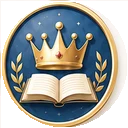
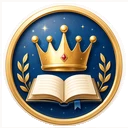
Use individual achievement medal assets

diff --git a/docs/index.html b/docs/index.html
@@ -22,8 +22,10 @@
 @media(max-width:520px){.shell:not(.admin)[data-view="home"]>.welcome{flex:0 0 auto;height:auto;max-height:calc(100dvh - 112px);overflow:hidden;padding-bottom:18px}.hero-name{grid-template-columns:max-content 96px;gap:7px}.hero-name h1{max-width:224px}.current-medal img{width:92px;height:92px}.medal-collection{margin-top:8px;margin-bottom:10px}.achievement-progress{margin-bottom:7px}.stats{margin-top:8px;margin-bottom:9px}.menu{margin-top:8px}.achievement-hero:before{inset:-42px -18px auto;height:350px;background:radial-gradient(ellipse at 38% 18%,var(--achievement-glow),transparent 65%)}}
 .medal-slot.earned{border:0;background:transparent;box-shadow:none}.medal-slot.earned img{width:100%;height:100%;filter:drop-shadow(0 4px 5px #18273b28)}.hero-name{grid-template-columns:max-content 90px;gap:4px;align-items:center}.current-medal{width:90px;align-self:center}.current-medal img{width:86px;height:86px;filter:drop-shadow(0 5px 7px #18273b2d)}.current-medal span{margin-top:-1px;font-size:9px;padding:3px 7px}.achievement-hero:before{background:radial-gradient(ellipse at 34% 17%,var(--achievement-glow),transparent 61%)}
 @media(max-width:520px){.hero-name{grid-template-columns:max-content 86px;gap:2px}.hero-name h1{max-width:230px}.current-medal{width:86px}.current-medal img{width:82px;height:82px}.current-medal span{font-size:8px;padding:3px 6px}.medal-slot.earned small{bottom:-3px}.achievement-hero:before{background:radial-gradient(ellipse at 34% 16%,var(--achievement-glow),transparent 62%)}}
+.hero-name{grid-template-columns:max-content 78px;gap:6px}.current-medal{width:78px}.current-medal img{width:72px;height:72px}.current-medal span{max-width:78px;margin-top:1px;padding:3px 5px;font-size:8px;overflow:hidden;text-overflow:ellipsis}.medal-slot.earned img{filter:drop-shadow(0 3px 5px #18273b24)}
+@media(max-width:520px){.hero-name{grid-template-columns:max-content 76px;gap:4px}.hero-name h1{max-width:236px}.current-medal{width:76px}.current-medal img{width:70px;height:70px}.current-medal span{max-width:76px}.medal-collection{margin-top:10px}}
 </style></head><body><main id="app" class="shell"><div class="loading">Загружаю занятие…</div></main>
-<script src="./streak.js?v=8"></script><script>
+<script src="./streak.js?v=9"></script><script>
 const params=new URLSearchParams(location.search),queryToken=params.get('token')||'',queryTeacher=params.get('teacher')||'';if(queryToken)localStorage.setItem('wordsToken',queryToken);if(queryTeacher)localStorage.setItem('wordsTeacher',queryTeacher);const TOKEN=queryToken||localStorage.getItem('wordsToken')||'';let TEACHER=queryTeacher||(!TOKEN?localStorage.getItem('wordsTeacher')||'':'');const API_URL='https://script.google.com/macros/s/AKfycbzXGwwZqhBFhVkdWnY84sz4YAc-iTSqShHS9PDfTaNq6uDQF-geMDTpUk4zptzNLnHarQ/exec',APP_URL=location.origin+location.pathname,app=document.getElementById('app');let lesson,index=0,ratings=[],quizIndex=0,quizScore=0,quizAnswers=[],retry=[],retryIndex=0,tableTabs={words:[],verbs:[]},autoSound=localStorage.getItem('wordsAutoSound')!=='0',speechRate=Number(localStorage.getItem('wordsSpeechRate')||.82),preferredVoice=localStorage.getItem('wordsVoice')||'',repeatSound=localStorage.getItem('wordsRepeatSound')==='1',remindersEnabled=localStorage.getItem('wordsReminders')==='1',homeData=null,lastSaved=true,lastMistakes=[],lastSummary=null,practiceAfterLesson=false,progressRun=null,progressType=sessionStorage.getItem('wordsProgressType')||'';
 const LOCAL_TIME_ZONE=Intl.DateTimeFormat().resolvedOptions().timeZone||'Europe/Moscow';
 const reminderPhrases=['Семь слов сегодня — заметный шаг к свободной речи.','Пять минут практики лучше, чем идеальный план на потом.','Твои слова ждут короткого повторения.','Каждое повторение делает речь увереннее.','Открой Words — один маленький урок уже считается победой.','Память любит регулярность. Самое время повторить слова.','Семь карточек — и дневная цель станет ближе.','Не обязательно долго: достаточно одного занятия.','Сегодняшнее повторение экономит время завтра.','Слова становятся твоими, когда ты к ним возвращаешься.','Небольшая тренировка сегодня — уверенный разговор потом.','Есть слова для повторения. Поможем им закрепиться?','Один урок занимает несколько минут, а результат остаётся надолго.','Продолжай серию занятий — начни с семи карточек.','Самое сложное — открыть приложение. Дальше будет легко.','Проверь себя: возможно, сегодня ты знаешь больше, чем вчера.','Повтори знакомое и добавь несколько новых слов.','Язык растёт по одному слову. Добавим сегодняшние семь?','Короткая практика прямо сейчас поддержит твой прогресс.','Вернись к словам на несколько минут — они уже почти закрепились.'];
@@ -95,5 +97,5 @@ function leaveTeacher(){TEACHER='';localStorage.removeItem('wordsTeacher');app.c
 async function teacherLogin(){let key=localStorage.getItem('wordsTeacher')||'';if(!key)key=prompt('Введите код преподавателя:')||'';if(!key)return;showLoading('Открываю кабинет преподавателя…');try{const d=await call('bootstrap','',key);if(d.role!=='teacher')throw new Error('Неверный код.');TEACHER=key;localStorage.setItem('wordsTeacher',key);tableTabs=d.tabs||{words:[],verbs:[]};renderTeacher(d.dashboard)}catch(e){localStorage.removeItem('wordsTeacher');alert(e.message);location.reload()}}
 function studentRow(s){const difficult=s.difficult||[],items=s.history||[],words=s.words||{learned:0,studied:s.studied||0},verbs=s.verbs||{learned:0,studied:0},hard=difficult.length?difficult.map(x=>`${esc(x.word)} (${x.wrong})`).join(', '):'ошибок пока нет',history=items.length?items.map(x=>`<div class="history">${fmtDate(x.date)} · ${x.category==='verb'?'глаголы':'слова'} · ${x.score}/${x.total}</div>`).join(''):'<div class="history">Занятий пока нет</div>',editData=encodeURIComponent(JSON.stringify({token:s.token,name:s.name,wordsTab:s.wordsTab,verbsTab:s.verbsTab,language:s.language}));return `<div class="student"><div class="student-head"><div><b>${esc(s.name)}</b><div class="meta">Последний вход: ${fmtDate(s.lastSeen)} · последний тест ${s.lastScore||'—'}</div><div class="meta">Вкладки: ${esc(s.wordsTab)} / ${esc(s.verbsTab||'—')}</div></div><div><button class="btn secondary" onclick='copyLink(${JSON.stringify(s.token)})'>Ссылка</button> <button class="btn secondary" onclick="editStudent('${editData}')">Редактировать</button> <button class="btn ghost" onclick='resetStudent(${JSON.stringify(s.token)},${JSON.stringify(s.name)})'>Сбросить прогресс</button> <button class="btn ${s.active?'danger':'primary'}" onclick='toggleStudent(${JSON.stringify(s.token)},${!s.active})'>${s.active?'Отключить':'Включить'}</button> <button class="btn danger" onclick='removeStudent(${JSON.stringify(s.token)},${JSON.stringify(s.name)})'>Удалить</button></div></div><div class="student-grid"><div class="mini"><b>${s.today||0}</b><br>занятий сегодня</div><div class="mini"><b>${s.week||0}</b><br>за 7 дней</div><div class="mini"><b>${words.learned||0}/${words.studied||0}</b><br>слова</div><div class="mini"><b>${verbs.learned||0}/${verbs.studied||0}</b><br>глаголы</div></div><details class="details"><summary>Ошибки и история</summary><p><b>Сложные:</b> ${hard}</p>${history}</details></div>`}
 async function addStudent(){try{const r=await call('createStudent',TEACHER,{name:newName.value,wordsTab:newWords.value,verbsTab:newVerbs.value,language:newLanguage.value});renderTeacher(r.dashboard);await copyText(studentLink(r.token));alert('Ученик создан. Ссылка скопирована.')}catch(e){alert(e.message)}}async function editStudent(encoded){const s=JSON.parse(decodeURIComponent(encoded)),name=prompt('Имя ученика:',s.name);if(name===null)return;const wordsTab=prompt('Вкладка слов:',s.wordsTab);if(wordsTab===null)return;const verbsTab=prompt('Вкладка глаголов (можно оставить пустой):',s.verbsTab||'');if(verbsTab===null)return;const language=confirm('Нажмите OK для испанского, «Отмена» для английского.')?'es':'en';try{renderTeacher(await call('updateStudent',TEACHER,s.token,{name,wordsTab,verbsTab,language}))}catch(e){alert(e.message)}}async function toggleStudent(t,a){try{renderTeacher(await call('setStudentActive',TEACHER,t,a))}catch(e){alert(e.message)}}async function resetStudent(t,name){if(!confirm('Удалить весь прогресс и историю ученика «'+name+'»?'))return;try{const dashboard=await call('resetStudentProgress',TEACHER,t);localStorage.removeItem('wordsHome:'+t);renderTeacher(dashboard);alert('Прогресс ученика сброшен: счётчики обнулены.')}catch(e){alert(e.message)}}async function removeStudent(t,name){if(!confirm('Удалить ученика «'+name+'» вместе со всем прогрессом и историей? Вкладки со словами останутся.'))return;try{const dashboard=await call('deleteStudent',TEACHER,t);localStorage.removeItem('wordsHome:'+t);renderTeacher(dashboard);alert('Ученик «'+name+'» удалён.')}catch(e){alert(e.message)}}async function copyText(t){try{await navigator.clipboard.writeText(t)}catch(e){prompt('Скопируйте ссылку:',t)}}async function copyLink(t){await copyText(studentLink(t));alert('Персональная ссылка готова.')}
-if('serviceWorker' in navigator){window.addEventListener('load',()=>navigator.serviceWorker.register('./sw.js?v=40',{updateViaCache:'none'}).then(registration=>registration.update()).catch(()=>{}))}init();
+if('serviceWorker' in navigator){window.addEventListener('load',()=>navigator.serviceWorker.register('./sw.js?v=41',{updateViaCache:'none'}).then(registration=>registration.update()).catch(()=>{}))}init();
 </script></body></html>

diff --git a/docs/streak.js b/docs/streak.js
@@ -12,7 +12,7 @@ const STREAK_STATUSES=[
  {days:365,id:'legend',asset:'legend.webp',name:'Легенда',description:'Целый год ежедневной практики.',color:'#e5a325'}
 ];
 const MOTIVATION_PHRASES=['Каждое занятие делает знакомые слова увереннее.','Семь карточек сегодня — меньше сомнений завтра.','Небольшой шаг каждый день сильнее редких рывков.','Ошибки показывают, что повторить, а не что вы не умеете.','Регулярность постепенно превращается в лёгкость.','Сегодняшнее повторение укрепляет память.','Ещё одно занятие — ещё семь встреч со словами.','Вы уже знаете больше, чем в начале пути.','Короткая практика тоже считается важным шагом.','Возвращаться к словам — нормальная часть обучения.','Спокойный темп помогает знаниям закрепиться.','Каждый правильный ответ вырос из предыдущих попыток.','Серия строится по одному занятию за раз.','Слова становятся своими, когда встречаются регулярно.','Лучший результат — тот, к которому вы возвращаетесь.','Пять минут практики лучше отложенного идеального часа.','Сегодня вы поддержали привычку учиться.','Повторение освобождает внимание для новых слов.','Уверенность растёт незаметно, но каждый день.','Продолжайте: память любит регулярные встречи.'];
-function medalSrc(x){return'./achievements/'+x.asset+'?v=4'}
+function medalSrc(x){return'./achievements/'+x.asset+'?v=5'}
 function getStreakStatus(days){days=Math.max(0,Number(days)||0);let current=null,next=STREAK_STATUSES[0];STREAK_STATUSES.forEach(x=>{if(days>=x.days){current=x;next=STREAK_STATUSES[STREAK_STATUSES.indexOf(x)+1]||null}});const start=current?current.days:0,end=next?next.days:start||1,progress=next?Math.max(0,Math.min(1,(days-start)/(end-start))):1;return{days,current,next,remaining:next?Math.max(0,next.days-days):0,progress,max:!next}}
 function achievementHeader(d){
  const streak=getStreakStatus(d.streak),best=getStreakStatus(d.longestStreak),current=best.current||STREAK_STATUSES[0],bestDays=Math.max(0,Number(d.longestStreak||0)),lessons=Number(d.totalLessons||0),phrase=MOTIVATION_PHRASES[lessons%MOTIVATION_PHRASES.length],percent=Math.round(streak.progress*100),footer=streak.next?`До достижения «${streak.next.name}» — ${streak.remaining} ${dayWord(streak.remaining)}`:'Все достижения серии открыты';

diff --git a/docs/sw.js b/docs/sw.js
@@ -1,4 +1,4 @@
-const CACHE='words-shell-v40';
+const CACHE='words-shell-v41';
 const SHELL=['./','./index.html','./streak.js','./manifest.webmanifest','./icon-words-v3-180.png','./icon-words-v3-512.png','./achievements/first.webp','./achievements/student.webp','./achievements/rhythm.webp','./achievements/practice.webp','./achievements/habit.webp','./achievements/speaker.webp','./achievements/explorer.webp','./achievements/linguist.webp','./achievements/master.webp','./achievements/expert.webp','./achievements/legend.webp'];
 self.addEventListener('install',event=>event.waitUntil(caches.open(CACHE).then(cache=>cache.addAll(SHELL)).then(()=>self.skipWaiting())));
 self.addEventListener('activate',event=>event.waitUntil(caches.keys().then(keys=>Promise.all(keys.filter(key=>key!==CACHE).map(key=>caches.delete(key)))).then(()=>self.clients.claim())));
